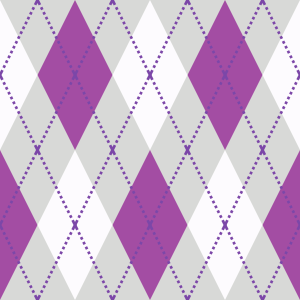
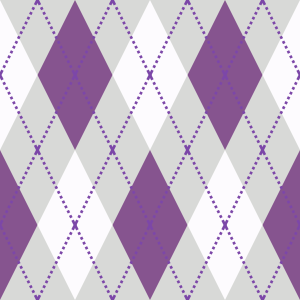
changing up colors a little

diff --git a/css/index.css b/css/index.css
@@ -330,7 +330,7 @@ a:active {
   margin: 4% 0;
   padding: 1%;
   box-shadow: 3px 3px 6px #3a043a;
-  background-color: #6e076e7e;
+  background-color: #561264b4;
 }
 
 @media (max-width: 1280px) {
@@ -341,8 +341,8 @@ a:active {
 
 .second-section-title h1 {
   margin: 0;
-  text-shadow: 0 0 1px white, 0 0 3px white, 0 0 2px white, 0 4px 5px #3a043a,
-    0 4px 5px #8009805e;
+  text-shadow: 0 0 3px white, 0 0 3px white, 0 0 3px #3a043a73, 0 2px 5px #3a043a,
+    0 3px 5px #800980a8;
 }
 
 #second-section a {
@@ -359,7 +359,7 @@ a:active {
   padding-top: 1%;
   padding-bottom: 6%;
   box-shadow: 0px 0px 6px #3a043a;
-  background-image: url("/assets/pattern.png")
+  background-image: url("/assets/pattern2.png")
 }
 
 .card-wrapper {
@@ -518,11 +518,11 @@ a:active {
 }
 
 #link {
-  color: #0a0111;
+  color: #ffffff;
   font-size: 2rem;
-  font-weight: 700;
-  text-shadow: 0 0 0.3px rgba(137, 43, 226, 0.411), 0 0 2px white, 0 0 2px white,
-    0 2px 2px white, 0 2px 4px blueviolet;
+  font-weight: 500;
+  text-shadow: 0 0 0.3px white, 0 0 0.5px white, 0 0 0.8px white,
+    0 2px 2px blueviolet, 0 2px 4px white;
   filter: contrast(6);
 }
 
@@ -540,7 +540,7 @@ a:active {
   font-size: 1.8rem;
   box-shadow: 0 0 1px white, 0 0 2px white, 0 0 4px white, 0 4px 5px #3a043a,
     0 4px 5px #3a043a;
-  background-color: #800980bd;
+  background-color:#561264c4;
 }
 
 .skills {
@@ -555,9 +555,9 @@ a:active {
   box-shadow: 3px 3px 6px #3a043a;
   border-radius: 10px;
   margin-bottom: 10%;
-  text-shadow: 0 0 1px white, 0 0 3px white, 0 0 2px white, 0 4px 5px #3a043a,
-    0 4px 5px #8009805e;
-  background-color: #80098000;
+  text-shadow: 0 0 1px white, 0 0 3px white,  0 1px 2px #3a043a,
+    0 2px 3px #8009805e;
+  background-color:#561264b4;
 }
 
 .skills .icon-wrapper {
@@ -570,7 +570,7 @@ a:active {
   padding: 1%;
   margin-bottom: -30%;
   margin-top: -25%;
-  background-color: #f3e3f379;
+  background-color: #f3e3f346;
 
   box-shadow: 0 0 1px white, 0 0 2px white, 0 0 4px white, 0 4px 5px #3a043a,
     0 4px 5px #3a043a;
@@ -583,7 +583,6 @@ a:active {
 }
 
 .skills .icon-wrapper h6 {
-  text-shadow: 0 0 0.3px rgba(137, 43, 226, 0.411), 0 0 0.5px white, 0 0 0.5px white,
-    0 2px 2px white, 0 2px 2px blueviolet;
+  
 }
 /*# sourceMappingURL=index.css.map */
